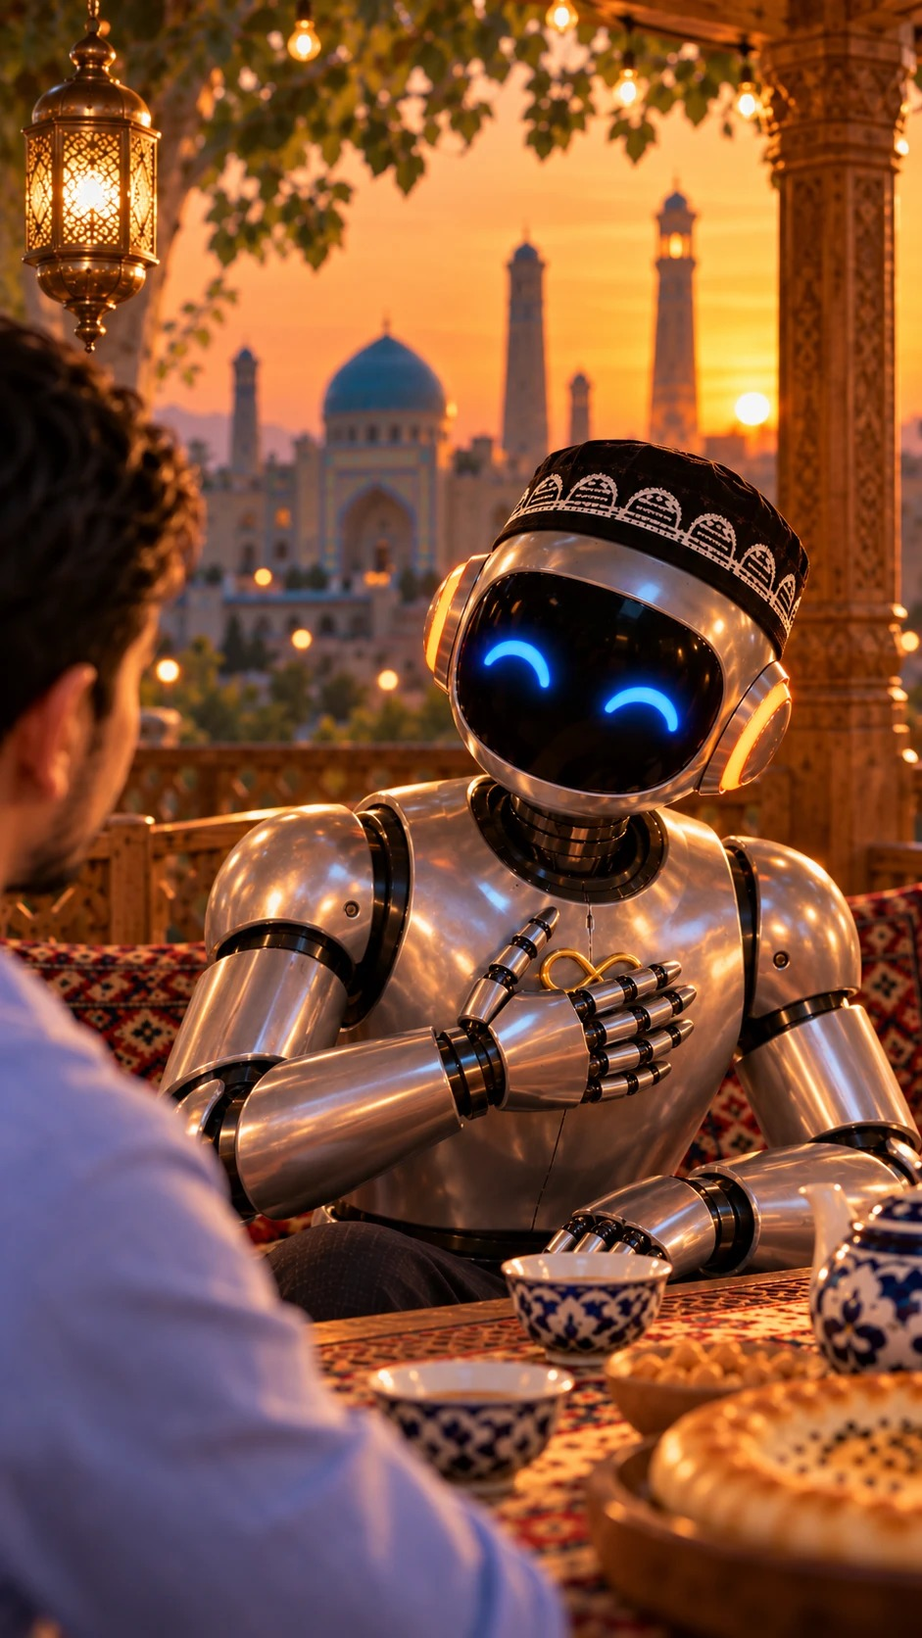
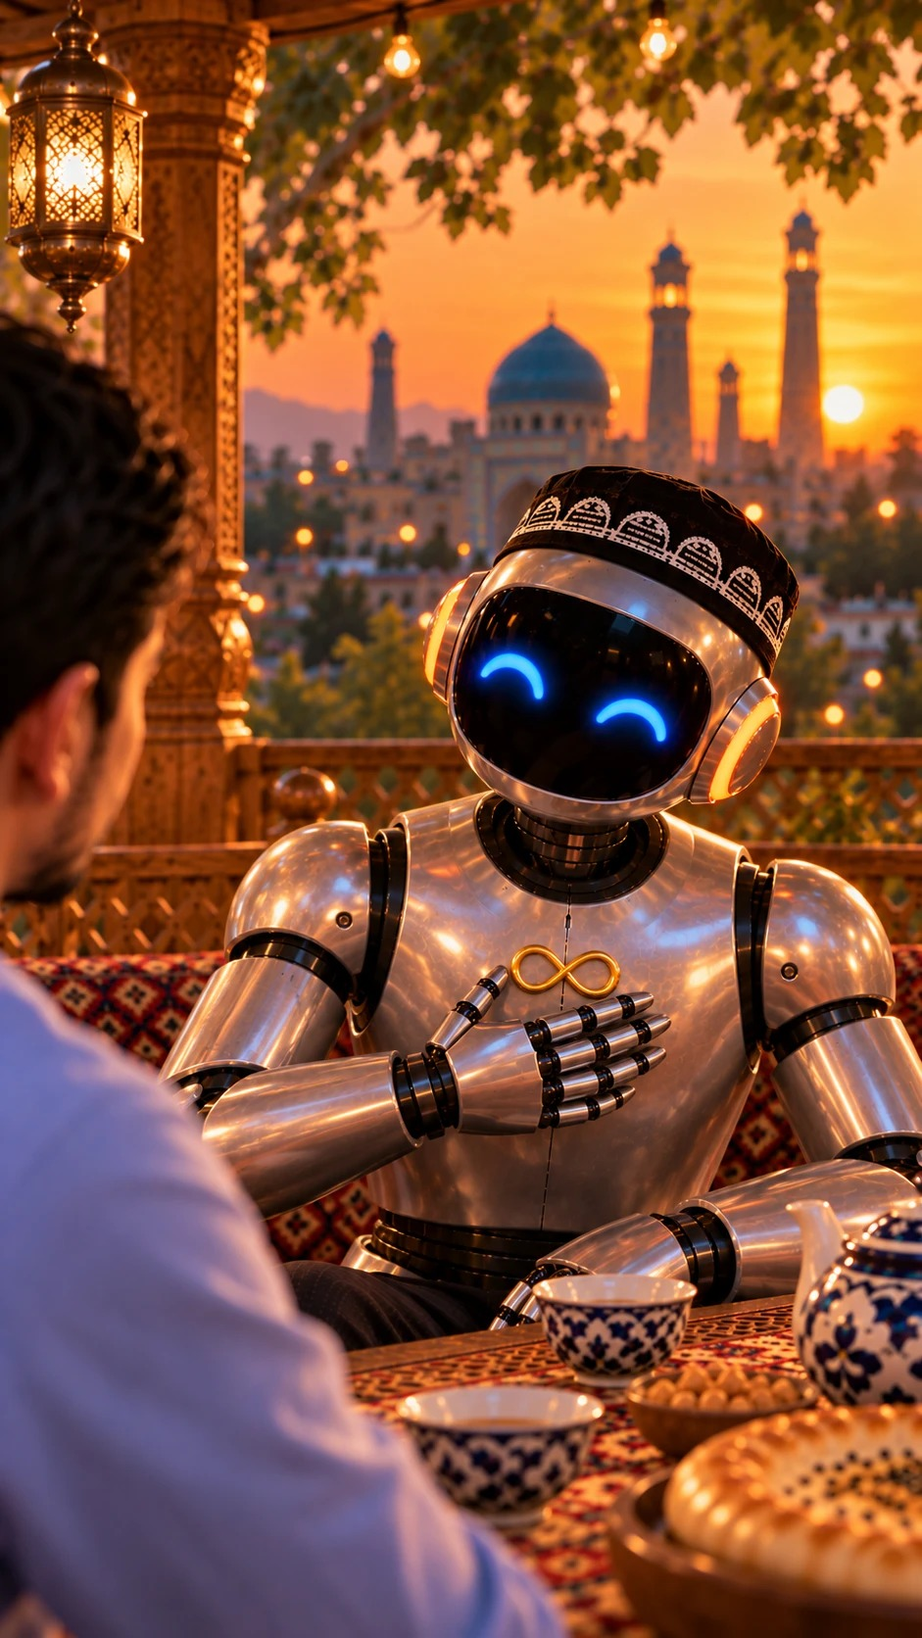
Robot videosi: 18, 20 rasmlar, to'liq tekshiruv, 1–6 video promptlari (#153)
* Robot videosi: 18, 20 rasmlar, eski variantlar o'chirildi, to'liq tekshiruv qaydi

Claude-Session: https://claude.ai/code/session_011ywrCWiDgwd2vXRNHCro1u

* Robot videosi: 1-6 sahna video promptlari va sahnalar sahifasi

Claude-Session: https://claude.ai/code/session_011ywrCWiDgwd2vXRNHCro1u

---------

diff --git a/video/robot/sahnalar.html b/video/robot/sahnalar.html
@@ -1,0 +1,81 @@
+<title>Robot bilan choy sahnalari</title>
+<meta name="claude:viewport-fit-sides" content="cover">
+<link rel="stylesheet" href="https://fonts.googleapis.com/css2?family=Lora:wght@500;600&family=Manrope:wght@400;600&family=JetBrains+Mono:wght@400&display=swap">
+<style>
+/* Layout: one column of scene cards, image above its prompt; a single dusk-choyxona look (deliberately dark). */
+:root{--bg:#17110d;--card:#211812;--line:#3d2c20;--fg:#f3e8da;--muted:#c0a98f;--sun:#f0a14a;--chrome:#9fd3ef;
+--display:"Lora",Georgia,serif;--body:"Manrope",system-ui,sans-serif;--mono:"JetBrains Mono",ui-monospace,monospace;color-scheme:dark}
+body{background:var(--bg);color:var(--fg);font-family:var(--body);font-size:15px;line-height:1.55}
+.wrap{max-width:720px;margin:0 auto;padding-block:28px 60px;padding-left:max(16px,env(safe-area-inset-left,0px));padding-right:max(16px,env(safe-area-inset-right,0px));display:grid;gap:22px}
+h1{font-family:var(--display);font-weight:600;font-size:clamp(28px,5vw,40px);margin:0;text-wrap:balance}
+.intro{color:var(--muted);margin:0;max-width:62ch}
+.card{display:grid;grid-template-columns:minmax(0,1fr);gap:18px;background:var(--card);border:1px solid var(--line);border-radius:10px;padding:16px}
+.media img{width:100%;max-width:420px;border-radius:6px;display:block;margin:0 auto}
+.txt{min-width:0;display:flex;flex-direction:column;gap:10px}
+header{display:flex;align-items:baseline;gap:10px;flex-wrap:wrap}
+.num{font-family:var(--mono);color:var(--sun);font-size:14px}
+h2{font-family:var(--display);font-weight:600;font-size:24px;margin:0;text-wrap:balance}
+.dur{font-size:12px;letter-spacing:.06em;text-transform:uppercase;border:1px solid var(--line);border-radius:99px;padding:2px 10px;color:var(--muted)}
+.lbl{display:block;font-size:12px;letter-spacing:.08em;text-transform:uppercase;color:var(--muted);margin:0}
+.voice{margin:0;font-style:italic}
+pre{margin:0;white-space:pre-wrap;word-break:break-word;font-family:var(--mono);font-size:13px;line-height:1.6;background:var(--bg);border:1px solid var(--line);border-radius:6px;padding:12px;user-select:all}
+.copy{align-self:flex-start;font:600 15px var(--body);color:var(--bg);background:var(--sun);border:0;border-radius:8px;padding:10px 18px;cursor:pointer}
+.copy.done{background:var(--chrome)}
+.copy:focus-visible{outline:2px solid var(--fg);outline-offset:2px}
+</style>
+<div class="wrap">
+<h1>«Robot bilan bir piyola choy» sahnalari</h1>
+<p class="intro">Har bir sahna: rasm, ovoz qatori va video prompti. «Nusxa olish»ni bosing, promptni shu rasm bilan birga Veo, Kling yoki Vidu'ga qo'ying. Format 9:16, 8 soniya. Ovozni o'zimiz qo'yamiz, video vositasidagi ovozga e'tibor bermang.</p>
+<article class="card" id="s1">
+<div class="media"><img src="web/01_choy.webp" alt="1-sahna: Robot choy ichadi" loading="lazy"></div>
+<div class="txt">
+<header><span class="num">1</span><h2>Robot choy ichadi</h2><span class="dur">9:16 · 8 s</span><span class="dur">sahna 8 s</span></header>
+<p class="voice"><span class="lbl">Ovoz</span>Do&#x27;koningdan har kuni pul oqib ketyapti. Sen esa buni ko&#x27;rmaysan.</p>
+<p class="lbl">Video prompti (Veo / Kling / Vidu)</p>
+<pre id="p1">Animate this image. Slow gentle push-in toward THE ROBOT. The robot slowly lifts the piyola closer to its visor as if sipping tea, then lowers it a little; steam keeps curling up from the tea; its blue eye arcs blink once softly. String lights twinkle, plane tree leaves sway in a light breeze, the lantern glows, the sunset sky and the madrasa stay unchanged. Keep THE ROBOT exactly as in the image for the whole clip: same polished chrome body, black visor with only two blue eye arcs and no mouth, orange glowing ear rings, gold infinity symbol on the chest and black doppi with white arch embroidery. Do not change its shape or colors. Vertical 9:16, 8 seconds, realistic cinematic motion, calm natural pace, the motion fills all 8 seconds. No text, no captions, no subtitles, no watermark, no logos, no new objects or people. No speech, no lip movement, no music, ambient sound only.</pre>
+<button type="button" class="copy" data-t="p1">Nusxa olish</button>
+</div></article>
+<article class="card" id="s3">
+<div class="media"><img src="web/03_kinoya.webp" alt="3-sahna: Robot kinoya bilan" loading="lazy"></div>
+<div class="txt">
+<header><span class="num">3</span><h2>Robot kinoya bilan</h2><span class="dur">9:16 · 8 s</span><span class="dur">sahna 3 s</span></header>
+<p class="voice"><span class="lbl">Ovoz</span>Rasm yaxshi. Lekin meni rasm uchun o&#x27;ylab topishmagan.</p>
+<p class="lbl">Video prompti (Veo / Kling / Vidu)</p>
+<pre id="p3">Animate this image. Very slow push-in. THE ROBOT slowly tilts its head a little more to one side in a friendly ironic way, its blue eye arcs blink once, the hand holding the piyola rests on its knee, steam rises from the tea. Leaves and string lights move gently. Keep THE ROBOT exactly as in the image for the whole clip: same polished chrome body, black visor with only two blue eye arcs and no mouth, orange glowing ear rings, gold infinity symbol on the chest and black doppi with white arch embroidery. Do not change its shape or colors. Vertical 9:16, 8 seconds, realistic cinematic motion, calm natural pace, the motion fills all 8 seconds. No text, no captions, no subtitles, no watermark, no logos, no new objects or people. No speech, no lip movement, no music, ambient sound only.</pre>
+<button type="button" class="copy" data-t="p3">Nusxa olish</button>
+</div></article>
+<article class="card" id="s4">
+<div class="media"><img src="web/04_olimlar.webp" alt="4-sahna: 1956 olimlar" loading="lazy"></div>
+<div class="txt">
+<header><span class="num">4</span><h2>1956 olimlar</h2><span class="dur">9:16 · 8 s</span><span class="dur">sahna 11 s</span></header>
+<p class="voice"><span class="lbl">Ovoz</span>1956-yili olimlar so&#x27;rashdi: mashina odamning aqliy ishini qila oladimi?</p>
+<p class="lbl">Video prompti (Veo / Kling / Vidu)</p>
+<pre id="p4">Animate this black-and-white archival photo. The scientist at the chalkboard keeps writing with chalk, the seated men watch and one nods slowly, the man with the notebook writes; the tape reels on the computer cabinets turn slowly and small panel lights blink. Subtle film grain, slight flicker and a gentle handheld documentary camera drift. The whole clip stays black-and-white. The chalk marks stay abstract scribbles, never readable letters. Keep every person&#x27;s face and clothes as in the image. Vertical 9:16, 8 seconds, realistic cinematic motion, calm natural pace, the motion fills all 8 seconds. No text, no captions, no subtitles, no watermark, no logos, no new objects or people. No speech, no lip movement, no music, ambient sound only.</pre>
+<button type="button" class="copy" data-t="p4">Nusxa olish</button>
+</div></article>
+<article class="card" id="s5">
+<div class="media"><img src="web/05_kassa.webp" alt="5-sahna: Do&#x27;konda kassa" loading="lazy"></div>
+<div class="txt">
+<header><span class="num">5</span><h2>Do&#x27;konda kassa</h2><span class="dur">9:16 · 8 s</span><span class="dur">sahna 7 s</span></header>
+<p class="voice"><span class="lbl">Ovoz</span>Sen kun bo&#x27;yi kassaga, telefonga, mijozga qaraysan. Oshpaz stoliga esa hech kim qaramaydi.</p>
+<p class="lbl">Video prompti (Veo / Kling / Vidu)</p>
+<pre id="p5">Animate this image. Slight handheld camera. THE MAN listens to his phone with a tired, busy look, holding the card terminal while the customer taps the bank card, then he glances at the queue. In the background THE COOK keeps wrapping lavash and nobody watches him. Keep THE MAN exactly as in the image for the whole clip: same face, neat black hair, short black beard and light-blue shirt; keep THE COOK the same. The man does not speak, his mouth stays closed. Vertical 9:16, 8 seconds, realistic cinematic motion, calm natural pace, the motion fills all 8 seconds. No text, no captions, no subtitles, no watermark, no logos, no new objects or people. No speech, no lip movement, no music, ambient sound only.</pre>
+<button type="button" class="copy" data-t="p5">Nusxa olish</button>
+</div></article>
+<article class="card" id="s6">
+<div class="media"><img src="web/06_sousiz.webp" alt="6-sahna: Sousiz lavash" loading="lazy"></div>
+<div class="txt">
+<header><span class="num">6</span><h2>Sousiz lavash</h2><span class="dur">9:16 · 8 s</span><span class="dur">sahna 6 s</span></header>
+<p class="voice"><span class="lbl">Ovoz</span>Bitta lavash sousiz ketdi. Mijoz indamadi. Lekin qaytib kelmadi.</p>
+<p class="lbl">Video prompti (Veo / Kling / Vidu)</p>
+<pre id="p6">Animate this image. Steady camera with a slight push-in on the hands. THE COOK wraps the lavash with meat and vegetables without adding any sauce; the white sauce bottle stays untouched on the counter. In the background the customer walks out of the door with the paper-wrapped lavash. Keep THE COOK exactly as in the image for the whole clip: same face, white cap, white T-shirt, white apron and black gloves. Vertical 9:16, 8 seconds, realistic cinematic motion, calm natural pace, the motion fills all 8 seconds. No text, no captions, no subtitles, no watermark, no logos, no new objects or people. No speech, no lip movement, no music, ambient sound only.</pre>
+<button type="button" class="copy" data-t="p6">Nusxa olish</button>
+</div></article></div>
+<script>
+document.querySelectorAll('.copy').forEach(b=>b.addEventListener('click',()=>{
+ const pre=document.getElementById(b.dataset.t);const t=pre.textContent;
+ const ok=()=>{b.textContent='Nusxa olindi';b.classList.add('done');setTimeout(()=>{b.textContent='Nusxa olish';b.classList.remove('done')},1800)};
+ const sel=()=>{const r=document.createRange();r.selectNodeContents(pre);const s=getSelection();s.removeAllRanges();s.addRange(r);b.textContent='Belgilandi, nusxa oling'};
+ try{navigator.clipboard.writeText(t).then(ok,sel)}catch(e){sel()}
+}));
+</script>

diff --git a/video/robot/page_head.html b/video/robot/page_head.html
@@ -1,0 +1,28 @@
+<title>Robot bilan choy sahnalari</title>
+<meta name="claude:viewport-fit-sides" content="cover">
+<link rel="stylesheet" href="https://fonts.googleapis.com/css2?family=Lora:wght@500;600&family=Manrope:wght@400;600&family=JetBrains+Mono:wght@400&display=swap">
+<style>
+/* Layout: one column of scene cards, image above its prompt; a single dusk-choyxona look (deliberately dark). */
+:root{--bg:#17110d;--card:#211812;--line:#3d2c20;--fg:#f3e8da;--muted:#c0a98f;--sun:#f0a14a;--chrome:#9fd3ef;
+--display:"Lora",Georgia,serif;--body:"Manrope",system-ui,sans-serif;--mono:"JetBrains Mono",ui-monospace,monospace;color-scheme:dark}
+body{background:var(--bg);color:var(--fg);font-family:var(--body);font-size:15px;line-height:1.55}
+.wrap{max-width:720px;margin:0 auto;padding-block:28px 60px;padding-left:max(16px,env(safe-area-inset-left,0px));padding-right:max(16px,env(safe-area-inset-right,0px));display:grid;gap:22px}
+h1{font-family:var(--display);font-weight:600;font-size:clamp(28px,5vw,40px);margin:0;text-wrap:balance}
+.intro{color:var(--muted);margin:0;max-width:62ch}
+.card{display:grid;grid-template-columns:minmax(0,1fr);gap:18px;background:var(--card);border:1px solid var(--line);border-radius:10px;padding:16px}
+.media img{width:100%;max-width:420px;border-radius:6px;display:block;margin:0 auto}
+.txt{min-width:0;display:flex;flex-direction:column;gap:10px}
+header{display:flex;align-items:baseline;gap:10px;flex-wrap:wrap}
+.num{font-family:var(--mono);color:var(--sun);font-size:14px}
+h2{font-family:var(--display);font-weight:600;font-size:24px;margin:0;text-wrap:balance}
+.dur{font-size:12px;letter-spacing:.06em;text-transform:uppercase;border:1px solid var(--line);border-radius:99px;padding:2px 10px;color:var(--muted)}
+.lbl{display:block;font-size:12px;letter-spacing:.08em;text-transform:uppercase;color:var(--muted);margin:0}
+.voice{margin:0;font-style:italic}
+pre{margin:0;white-space:pre-wrap;word-break:break-word;font-family:var(--mono);font-size:13px;line-height:1.6;background:var(--bg);border:1px solid var(--line);border-radius:6px;padding:12px;user-select:all}
+.copy{align-self:flex-start;font:600 15px var(--body);color:var(--bg);background:var(--sun);border:0;border-radius:8px;padding:10px 18px;cursor:pointer}
+.copy.done{background:var(--chrome)}
+.copy:focus-visible{outline:2px solid var(--fg);outline-offset:2px}
+</style>
+<div class="wrap">
+<h1>«Robot bilan bir piyola choy» sahnalari</h1>
+<p class="intro">Har bir sahna: rasm, ovoz qatori va video prompti. «Nusxa olish»ni bosing, promptni shu rasm bilan birga Veo, Kling yoki Vidu'ga qo'ying. Format 9:16, 8 soniya. Ovozni o'zimiz qo'yamiz, video vositasidagi ovozga e'tibor bermang.</p>

diff --git a/video/robot/page_tail.html b/video/robot/page_tail.html
@@ -1,0 +1,9 @@
+</div>
+<script>
+document.querySelectorAll('.copy').forEach(b=>b.addEventListener('click',()=>{
+ const pre=document.getElementById(b.dataset.t);const t=pre.textContent;
+ const ok=()=>{b.textContent='Nusxa olindi';b.classList.add('done');setTimeout(()=>{b.textContent='Nusxa olish';b.classList.remove('done')},1800)};
+ const sel=()=>{const r=document.createRange();r.selectNodeContents(pre);const s=getSelection();s.removeAllRanges();s.addRange(r);b.textContent='Belgilandi, nusxa oling'};
+ try{navigator.clipboard.writeText(t).then(ok,sel)}catch(e){sel()}
+}));
+</script>

diff --git a/video/robot/video_prompts.py b/video/robot/video_prompts.py
@@ -1,0 +1,41 @@
+# Video promptlari (rasm -> video, 9:16, 8 s) va sahnalar sahifasi
+import html, os
+from PIL import Image
+KEEP_R = ("Keep THE ROBOT exactly as in the image for the whole clip: same polished chrome body, black visor with only two blue "
+ "eye arcs and no mouth, orange glowing ear rings, gold infinity symbol on the chest and black doppi with white arch embroidery. "
+ "Do not change its shape or colors.")
+END = ("Vertical 9:16, 8 seconds, realistic cinematic motion, calm natural pace, the motion fills all 8 seconds. No text, no captions, "
+ "no subtitles, no watermark, no logos, no new objects or people. No speech, no lip movement, no music, ambient sound only.")
+V = [
+ ("01_choy", 1, "Robot choy ichadi", "8 s", "Do'koningdan har kuni pul oqib ketyapti. Sen esa buni ko'rmaysan.",
+  "Animate this image. Slow gentle push-in toward THE ROBOT. The robot slowly lifts the piyola closer to its visor as if sipping tea, then lowers it a little; steam keeps curling up from the tea; its blue eye arcs blink once softly. String lights twinkle, plane tree leaves sway in a light breeze, the lantern glows, the sunset sky and the madrasa stay unchanged. " + KEEP_R),
+ ("03_kinoya", 3, "Robot kinoya bilan", "3 s", "Rasm yaxshi. Lekin meni rasm uchun o'ylab topishmagan.",
+  "Animate this image. Very slow push-in. THE ROBOT slowly tilts its head a little more to one side in a friendly ironic way, its blue eye arcs blink once, the hand holding the piyola rests on its knee, steam rises from the tea. Leaves and string lights move gently. " + KEEP_R),
+ ("04_olimlar", 4, "1956 olimlar", "11 s", "1956-yili olimlar so'rashdi: mashina odamning aqliy ishini qila oladimi?",
+  "Animate this black-and-white archival photo. The scientist at the chalkboard keeps writing with chalk, the seated men watch and one nods slowly, the man with the notebook writes; the tape reels on the computer cabinets turn slowly and small panel lights blink. Subtle film grain, slight flicker and a gentle handheld documentary camera drift. The whole clip stays black-and-white. The chalk marks stay abstract scribbles, never readable letters. Keep every person's face and clothes as in the image."),
+ ("05_kassa", 5, "Do'konda kassa", "7 s", "Sen kun bo'yi kassaga, telefonga, mijozga qaraysan. Oshpaz stoliga esa hech kim qaramaydi.",
+  "Animate this image. Slight handheld camera. THE MAN listens to his phone with a tired, busy look, holding the card terminal while the customer taps the bank card, then he glances at the queue. In the background THE COOK keeps wrapping lavash and nobody watches him. Keep THE MAN exactly as in the image for the whole clip: same face, neat black hair, short black beard and light-blue shirt; keep THE COOK the same. The man does not speak, his mouth stays closed."),
+ ("06_sousiz", 6, "Sousiz lavash", "6 s", "Bitta lavash sousiz ketdi. Mijoz indamadi. Lekin qaytib kelmadi.",
+  "Animate this image. Steady camera with a slight push-in on the hands. THE COOK wraps the lavash with meat and vegetables without adding any sauce; the white sauce bottle stays untouched on the counter. In the background the customer walks out of the door with the paper-wrapped lavash. Keep THE COOK exactly as in the image for the whole clip: same face, white cap, white T-shirt, white apron and black gloves."),
+]
+def full(p): return p + " " + END
+if __name__ == "__main__":
+    md = ["# «Robot bilan bir piyola choy» — video promptlari (rasm → video, Veo / Kling / Vidu)", "",
+          "Har bir klip 9:16, 8 s. Sahna vaqti qisqaroq bo'lsa, klipning bir qismi olinadi; uzunroq bo'lsa (4-sahna, 11 s) minterpolate bilan sekinlashtiriladi.", ""]
+    cards = []
+    for f, n, name, dur, voice, p in V:
+        im = Image.open(f"video/robot/img/{f}.jpg"); im.thumbnail((600, 1100)); im.save(f"video/robot/web/{f}.webp", quality=82)
+        md += [f"## {n}. {name} — 9:16 (tik), 8 s (sahna {dur})", f"Rasm: `img/{f}.jpg`", f"Ovoz: {voice}", "", "```", full(p), "```", ""]
+        e = html.escape
+        cards.append(f'''<article class="card" id="s{n}">
+<div class="media"><img src="web/{f}.webp" alt="{n}-sahna: {e(name)}" loading="lazy"></div>
+<div class="txt">
+<header><span class="num">{n}</span><h2>{e(name)}</h2><span class="dur">9:16 · 8 s</span><span class="dur">sahna {dur}</span></header>
+<p class="voice"><span class="lbl">Ovoz</span>{e(voice)}</p>
+<p class="lbl">Video prompti (Veo / Kling / Vidu)</p>
+<pre id="p{n}">{e(full(p))}</pre>
+<button type="button" class="copy" data-t="p{n}">Nusxa olish</button>
+</div></article>''')
+    open("video/robot/VIDEO.md", "w").write("\n".join(md))
+    page = open("video/robot/page_head.html").read() + "\n".join(cards) + open("video/robot/page_tail.html").read()
+    open("video/robot/sahnalar.html", "w").write(page)

diff --git a/video/robot/VIDEO.md b/video/robot/VIDEO.md
@@ -1,0 +1,43 @@
+# «Robot bilan bir piyola choy» — video promptlari (rasm → video, Veo / Kling / Vidu)
+
+Har bir klip 9:16, 8 s. Sahna vaqti qisqaroq bo'lsa, klipning bir qismi olinadi; uzunroq bo'lsa (4-sahna, 11 s) minterpolate bilan sekinlashtiriladi.
+
+## 1. Robot choy ichadi — 9:16 (tik), 8 s (sahna 8 s)
+Rasm: `img/01_choy.jpg`
+Ovoz: Do'koningdan har kuni pul oqib ketyapti. Sen esa buni ko'rmaysan.
+
+```
+Animate this image. Slow gentle push-in toward THE ROBOT. The robot slowly lifts the piyola closer to its visor as if sipping tea, then lowers it a little; steam keeps curling up from the tea; its blue eye arcs blink once softly. String lights twinkle, plane tree leaves sway in a light breeze, the lantern glows, the sunset sky and the madrasa stay unchanged. Keep THE ROBOT exactly as in the image for the whole clip: same polished chrome body, black visor with only two blue eye arcs and no mouth, orange glowing ear rings, gold infinity symbol on the chest and black doppi with white arch embroidery. Do not change its shape or colors. Vertical 9:16, 8 seconds, realistic cinematic motion, calm natural pace, the motion fills all 8 seconds. No text, no captions, no subtitles, no watermark, no logos, no new objects or people. No speech, no lip movement, no music, ambient sound only.
+```
+
+## 3. Robot kinoya bilan — 9:16 (tik), 8 s (sahna 3 s)
+Rasm: `img/03_kinoya.jpg`
+Ovoz: Rasm yaxshi. Lekin meni rasm uchun o'ylab topishmagan.
+
+```
+Animate this image. Very slow push-in. THE ROBOT slowly tilts its head a little more to one side in a friendly ironic way, its blue eye arcs blink once, the hand holding the piyola rests on its knee, steam rises from the tea. Leaves and string lights move gently. Keep THE ROBOT exactly as in the image for the whole clip: same polished chrome body, black visor with only two blue eye arcs and no mouth, orange glowing ear rings, gold infinity symbol on the chest and black doppi with white arch embroidery. Do not change its shape or colors. Vertical 9:16, 8 seconds, realistic cinematic motion, calm natural pace, the motion fills all 8 seconds. No text, no captions, no subtitles, no watermark, no logos, no new objects or people. No speech, no lip movement, no music, ambient sound only.
+```
+
+## 4. 1956 olimlar — 9:16 (tik), 8 s (sahna 11 s)
+Rasm: `img/04_olimlar.jpg`
+Ovoz: 1956-yili olimlar so'rashdi: mashina odamning aqliy ishini qila oladimi?
+
+```
+Animate this black-and-white archival photo. The scientist at the chalkboard keeps writing with chalk, the seated men watch and one nods slowly, the man with the notebook writes; the tape reels on the computer cabinets turn slowly and small panel lights blink. Subtle film grain, slight flicker and a gentle handheld documentary camera drift. The whole clip stays black-and-white. The chalk marks stay abstract scribbles, never readable letters. Keep every person's face and clothes as in the image. Vertical 9:16, 8 seconds, realistic cinematic motion, calm natural pace, the motion fills all 8 seconds. No text, no captions, no subtitles, no watermark, no logos, no new objects or people. No speech, no lip movement, no music, ambient sound only.
+```
+
+## 5. Do'konda kassa — 9:16 (tik), 8 s (sahna 7 s)
+Rasm: `img/05_kassa.jpg`
+Ovoz: Sen kun bo'yi kassaga, telefonga, mijozga qaraysan. Oshpaz stoliga esa hech kim qaramaydi.
+
+```
+Animate this image. Slight handheld camera. THE MAN listens to his phone with a tired, busy look, holding the card terminal while the customer taps the bank card, then he glances at the queue. In the background THE COOK keeps wrapping lavash and nobody watches him. Keep THE MAN exactly as in the image for the whole clip: same face, neat black hair, short black beard and light-blue shirt; keep THE COOK the same. The man does not speak, his mouth stays closed. Vertical 9:16, 8 seconds, realistic cinematic motion, calm natural pace, the motion fills all 8 seconds. No text, no captions, no subtitles, no watermark, no logos, no new objects or people. No speech, no lip movement, no music, ambient sound only.
+```
+
+## 6. Sousiz lavash — 9:16 (tik), 8 s (sahna 6 s)
+Rasm: `img/06_sousiz.jpg`
+Ovoz: Bitta lavash sousiz ketdi. Mijoz indamadi. Lekin qaytib kelmadi.
+
+```
+Animate this image. Steady camera with a slight push-in on the hands. THE COOK wraps the lavash with meat and vegetables without adding any sauce; the white sauce bottle stays untouched on the counter. In the background the customer walks out of the door with the paper-wrapped lavash. Keep THE COOK exactly as in the image for the whole clip: same face, white cap, white T-shirt, white apron and black gloves. Vertical 9:16, 8 seconds, realistic cinematic motion, calm natural pace, the motion fills all 8 seconds. No text, no captions, no subtitles, no watermark, no logos, no new objects or people. No speech, no lip movement, no music, ambient sound only.
+```

diff --git a/video/robot/REF.md b/video/robot/REF.md
@@ -16,3 +16,7 @@ Reference portrait of THE MAN, vertical 9:16. THE MAN sits on a wooden supa faci
 - `img/ref_robot.jpg`: xrom tana, qora oyna niqob, ko'k «tabassum» ko'zlar (yoy shaklida), quloqlarida to'q sariq yorug' halqa, ko'kragida oltin ∞, qora-oq do'ppi (oq yoy naqshli, dumaloq), qo'lida ko'k-oq piyola. Har sahnada aynan shunday qolishi kerak.
 - `img/ref_odam.jpg`: ~35 yosh, qisqa qora soch, kalta qora soqol, och ko'k ko'ylak (yengi tirsakkacha), to'q kulrang shim, mehribon tabassum.
 - Fon (ikkalasida bir xil): ayvon, chiroq gulchambari, osma fonar, chinor, quyosh botishi, orqada ko'k gumbazli madrasa va minora (Buxoroga o'xshaydi), qizil naqshli gilam, ko'k-oq choynak, patir non.
+
+## To'liq tekshiruv (2026-10-17, 22 rasm)
+- Yigit yuzi ikki xil chiqdi: 05, 07, 10 namunaga mos (tartibli soch, to'liqroq soqol); 02, 14, 17, 19, 21, 22 da sochi to'zg'igan, soqoli siyrak (echki soqol). Bu 6 ta rasm ChatGPT'da tahrirlanadi (faqat yuz, soch, soqol namunadagidek).
+- Kichik farqlar (qoldi): 14–22 fonida 3 ta minora va tog'lar (1–10 da bitta minora); oshpaz 5–6 da futbolka, 8–9 da oshpaz ko'ylagi; 05 va 13 kichik o'lchamda (572×1024).
